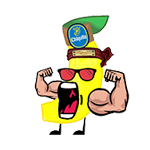
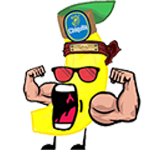
Add entered image for statuses section. Fix drawing laser.

diff --git a/PythonServer/game_handler.py b/PythonServer/game_handler.py
@@ -202,7 +202,8 @@ class GameHandler(TurnbasedGameHandler):
           self.statuses['bananas'][side][banana.id] = {
             'health_ref': [],
             'ammo_ref': [],
-            'reload': ''
+            'reload': '',
+            'removed': False
           }
 
           self.canvas.create_text(str(banana.id), start_x + self.statuses['font_size'] // 2, y + self.statuses['cell_size'] // 2, self.canvas.make_rgba(0, 0, 0, 255), self.statuses['font_size'], center_origin=True)
@@ -370,10 +371,17 @@ class GameHandler(TurnbasedGameHandler):
             if reach_banana:
               break
 
+          # Draw Laser
+          laser_center = {
+            'x': math.floor(((laser_start_pos.x + laser_end_pos.x) / 2) * self.cell_size + self.cell_size / 2),
+            'y': math.floor(((laser_start_pos.y + laser_end_pos.y) / 2) * self.cell_size + self.cell_size / 2)
+          }
           start_offset = self.fire_start_offset[command.dir.name]
-          laser_ref = self.canvas.create_line(laser_start_pos.x * self.cell_size + self.cell_size // 2 + start_offset[0], laser_start_pos.y * self.cell_size + self.cell_size // 2 + start_offset[1],
-                                              laser_end_pos.x * self.cell_size + self.cell_size // 2, laser_end_pos.y * self.cell_size + self.cell_size // 2,
-                                              self.canvas.make_rgba(255, 0, 0, 255), stroke_width=math.ceil(10 * self.scale_factor))
+          laser_length = math.sqrt((((laser_start_pos.x - laser_end_pos.x) * self.cell_size + start_offset[0]) ** 2) + (((laser_start_pos.y - laser_end_pos.y) * self.cell_size + start_offset[1]) ** 2))
+          laser_ref = self.canvas.create_image('Laser', laser_center['x'], laser_center['y'],
+                      center_origin=True, angle=self.fire_angle[command.dir.name])
+          self.canvas.edit_image(laser_ref, scale_type=ScaleType.ScaleX, scale_value=math.floor(laser_length * 100 / self.config['cell_size']))
+          self.canvas.edit_image(laser_ref, scale_type=ScaleType.ScaleY, scale_value=self.cell_size)
           self.delete_next_cycle.append(laser_ref)
           self.lasers_ref.append(laser_ref)
           # Add Fire sprite
@@ -443,12 +451,12 @@ class GameHandler(TurnbasedGameHandler):
           self.num_of_enters[side] += 1
           # update statuses
           if self.config['show_statuses']:
-            self.canvas.create_image('Box', self.statuses['mid_x_' + side], self.statuses['calc_y'](banana.id) + self.statuses['cell_size'] // 2,
+            self.canvas.create_image('Entered', self.statuses['mid_x_' + side], self.statuses['calc_y'](banana.id) + self.statuses['cell_size'] // 2,
                                     scale_type=ScaleType.ScaleToWidth, scale_value=self.statuses['step_y'], center_origin=True)
 
     # Check end game
     end_game = False
-    if self.current_cycle >= self.map_config['max_cycles']:
+    if self.current_cycle >= self.map_config['max_cycles'] - 1:
       end_game = True
     else:
       for side in self.sides:
@@ -518,10 +526,10 @@ class GameHandler(TurnbasedGameHandler):
     for side in self.sides:
       for banana in self.world.bananas[side]:
         if banana.status == EBananaStatus.Alive:
+          self._update_banana_ui(banana)
           if banana.img_ref in self.hidden_refs:
             self.canvas.send_to_back(banana.img_ref, self.background_ref)
           else:
-            self._update_banana_ui(banana)
             self.canvas.bring_to_front(banana.img_ref)
             self.canvas.bring_to_front(banana.id_ref, target_ref=banana.img_ref)
             self.canvas.bring_to_front(banana.health_ref, target_ref=banana.img_ref)
@@ -544,29 +552,38 @@ class GameHandler(TurnbasedGameHandler):
         for banana in self.world.bananas[side]:
           status = self.statuses['bananas'][side][banana.id]
 
-          for i in range(banana.max_health):
-            ref, ref_type, x, y = status['health_ref'][i]
-            new_ref_type = ERefType.Full if i < banana.health else ERefType.Empty
-            if ref_type != new_ref_type:
-              self.canvas.delete_element(ref)
-              img_name = 'Health' if new_ref_type == ERefType.Full else 'HealthEmpty'
-              ref = self.canvas.create_image(img_name, x, y, scale_type=ScaleType.ScaleToWidth, scale_value=self.statuses['cell_size'])
-              self.canvas.send_to_back(ref)
-              ref_type = new_ref_type
-            status['health_ref'][i] = (ref, ref_type, x, y)
+          if banana.status != EBananaStatus.Alive:
+            if not status['removed']:
+              for ref, ref_type, x, y in status['health_ref']:
+                self.canvas.delete_element(ref)
+              for ref, ref_type, x, y in status['ammo_ref']:
+                self.canvas.delete_element(ref)
+              self.canvas.delete_element(status['reload_ref'])
+              status['removed'] = True
+          else:
+            for i in range(banana.max_health):
+              ref, ref_type, x, y = status['health_ref'][i]
+              new_ref_type = ERefType.Full if i < banana.health else ERefType.Empty
+              if ref_type != new_ref_type:
+                self.canvas.delete_element(ref)
+                img_name = 'Health' if new_ref_type == ERefType.Full else 'HealthEmpty'
+                ref = self.canvas.create_image(img_name, x, y, scale_type=ScaleType.ScaleToWidth, scale_value=self.statuses['cell_size'])
+                self.canvas.send_to_back(ref)
+                ref_type = new_ref_type
+              status['health_ref'][i] = (ref, ref_type, x, y)
 
-          for i in range(banana.max_laser_count):
-            ref, ref_type, x, y = status['ammo_ref'][i]
-            new_ref_type = ERefType.Full if i < banana.laser_count else ERefType.Empty
-            if ref_type != new_ref_type:
-              self.canvas.delete_element(ref)
-              img_name = 'Ammo' if new_ref_type == ERefType.Full else 'AmmoEmpty'
-              ref = self.canvas.create_image(img_name, x, y, scale_type=ScaleType.ScaleToWidth, scale_value=self.statuses['cell_size'])
-              self.canvas.send_to_back(ref)
-              ref_type = new_ref_type
-            status['ammo_ref'][i] = (ref, ref_type, x, y)
+            for i in range(banana.max_laser_count):
+              ref, ref_type, x, y = status['ammo_ref'][i]
+              new_ref_type = ERefType.Full if i < banana.laser_count else ERefType.Empty
+              if ref_type != new_ref_type:
+                self.canvas.delete_element(ref)
+                img_name = 'Ammo' if new_ref_type == ERefType.Full else 'AmmoEmpty'
+                ref = self.canvas.create_image(img_name, x, y, scale_type=ScaleType.ScaleToWidth, scale_value=self.statuses['cell_size'])
+                self.canvas.send_to_back(ref)
+                ref_type = new_ref_type
+              status['ammo_ref'][i] = (ref, ref_type, x, y)
 
-          self.canvas.edit_text(status['reload_ref'], str(banana.curr_reload))
+            self.canvas.edit_text(status['reload_ref'], str(banana.curr_reload))
 
     # Apply actions
     self.canvas.apply_actions()
@@ -644,8 +661,6 @@ class GameHandler(TurnbasedGameHandler):
   def _enter(self, banana):
     banana.status = EBananaStatus.InBox # Update status
     self._remove_banana_ui(banana)
-    if self.config['show_statuses']:
-      pass
 
 
   def _update_score(self, side, score):
